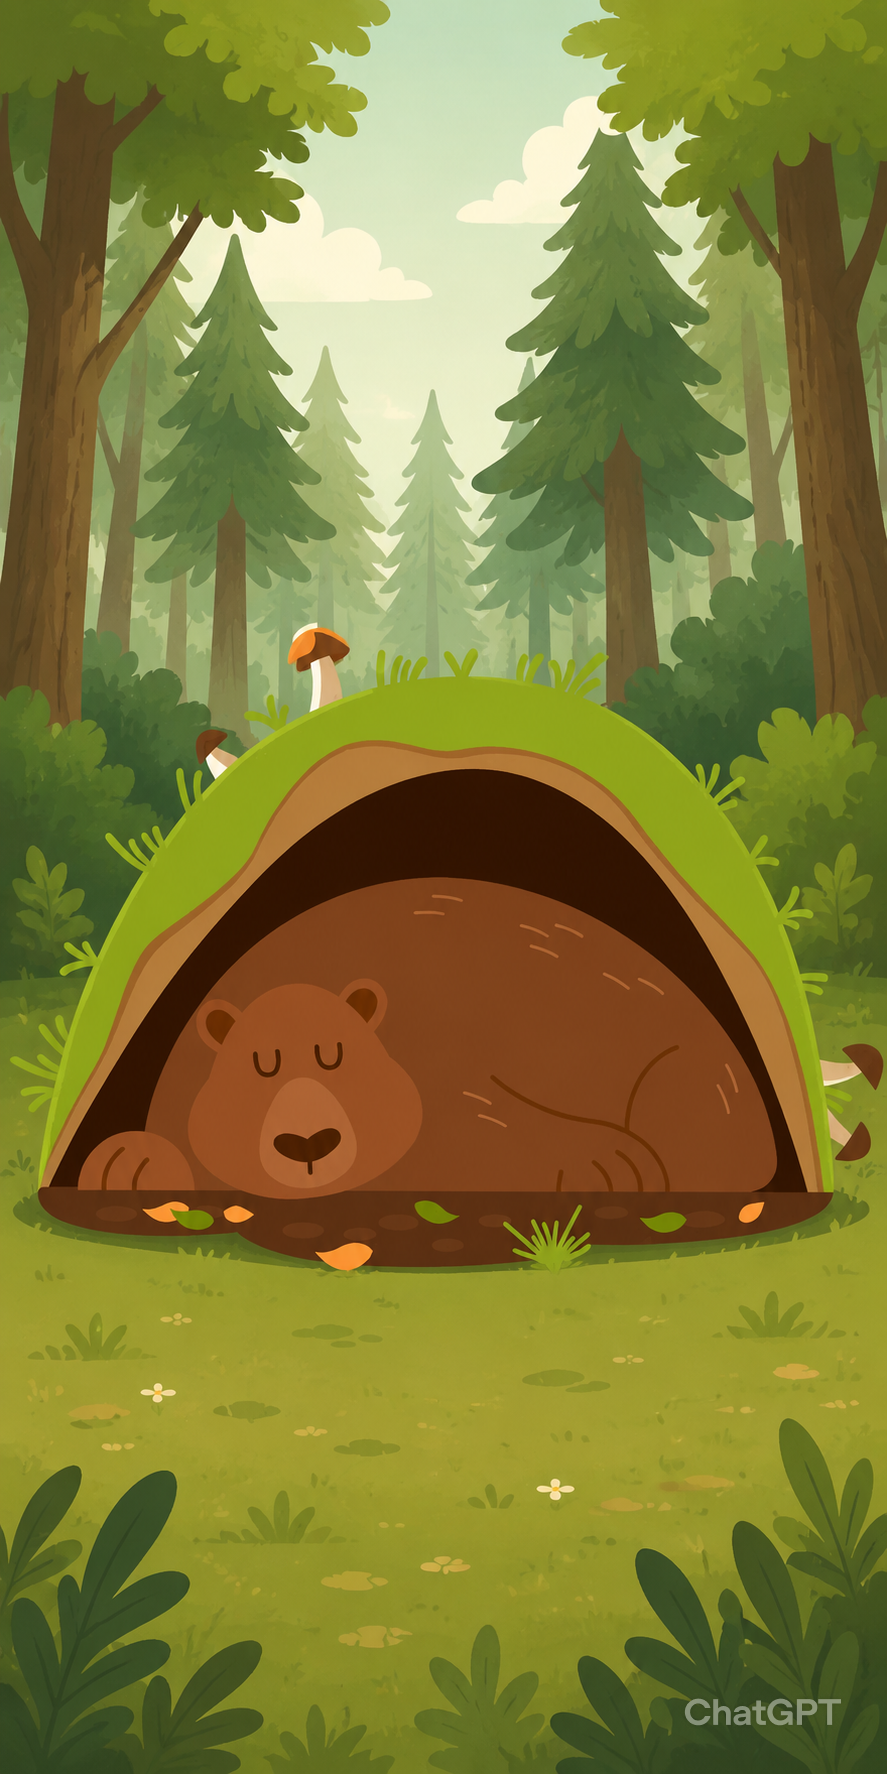
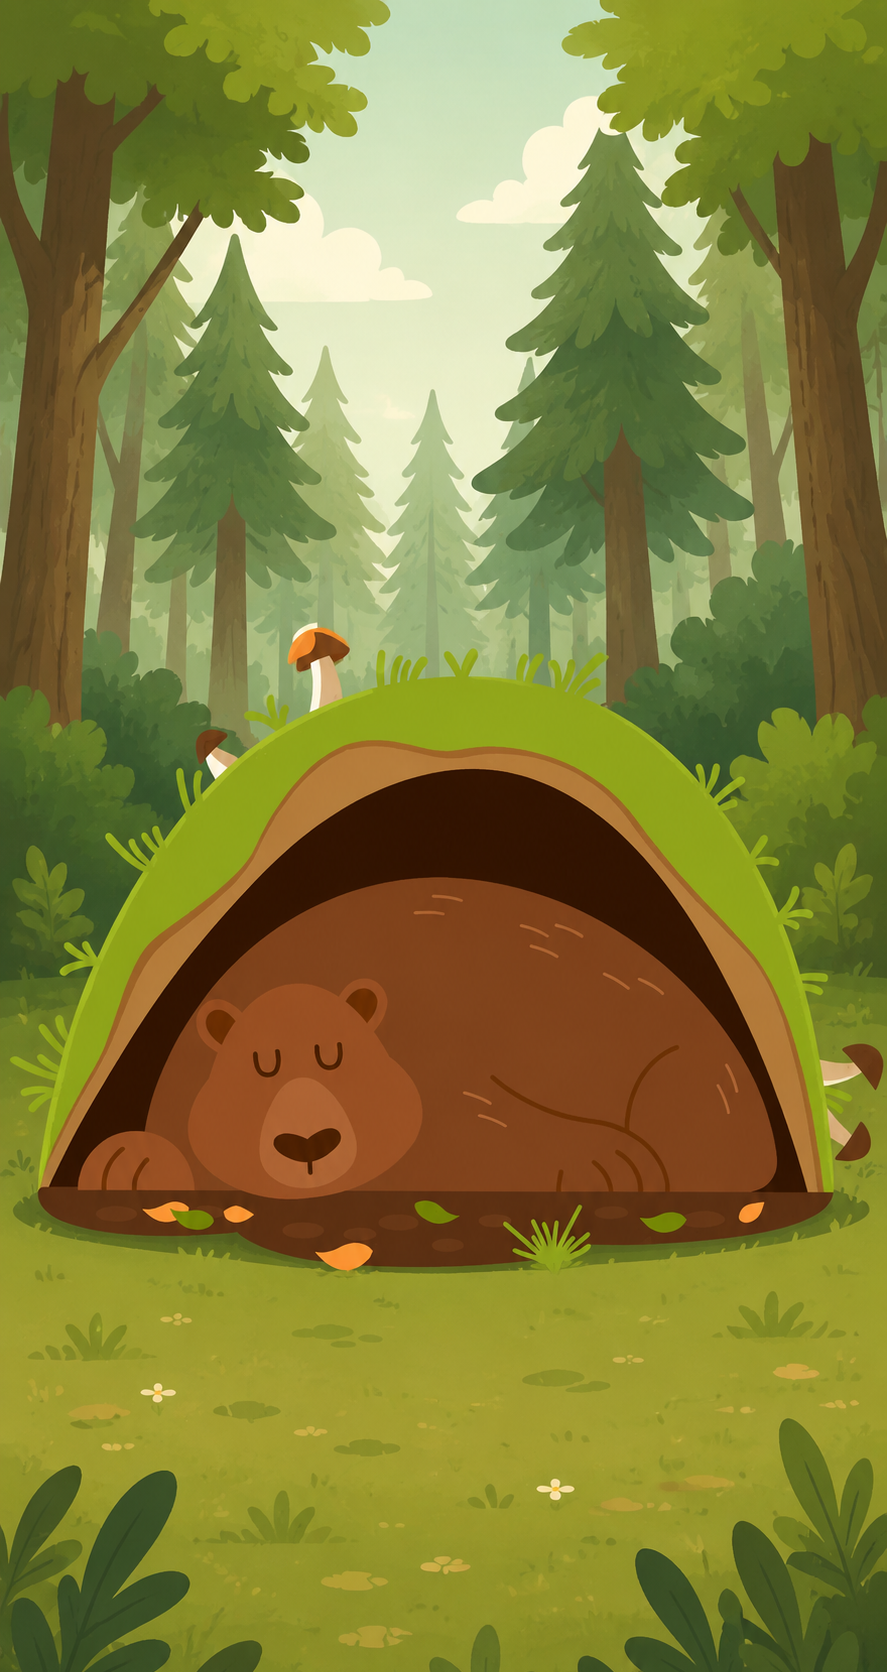
done update ui

diff --git a/lib/widgets/common/level_winding_path.dart b/lib/widgets/common/level_winding_path.dart
@@ -12,14 +12,30 @@ class BearHeadShape extends CustomPainter {
 
   @override
   void paint(Canvas canvas, Size size) {
+    final path = _getBearPath(size);
+
+    // Subtle soft shadow behind the bear head to blur the outline/edges
+    final shadowPaint = Paint()
+      ..color = Colors.black.withValues(alpha: 0.18)
+      ..style = PaintingStyle.fill
+      ..maskFilter = const MaskFilter.blur(BlurStyle.normal, 4.0);
+    canvas.drawPath(path, shadowPaint);
+
     final paint = Paint()
       ..color = color
       ..style = PaintingStyle.fill;
 
-    final path = _getBearPath(size);
     canvas.drawPath(path, paint);
 
     if (borderWidth > 0 && borderColor != null) {
+      // Soft glow/blur effect around the outline/border
+      final glowPaint = Paint()
+        ..color = borderColor!.withValues(alpha: 0.4)
+        ..style = PaintingStyle.stroke
+        ..strokeWidth = borderWidth + 3
+        ..maskFilter = const MaskFilter.blur(BlurStyle.normal, 2.5);
+      canvas.drawPath(path, glowPaint);
+
       final borderPaint = Paint()
         ..color = borderColor!
         ..style = PaintingStyle.stroke
@@ -85,6 +101,7 @@ class LevelNode extends StatelessWidget {
   final bool isActive;
   final bool isBoss;
   final VoidCallback onTap;
+  final Color? completedColor;
 
   const LevelNode({
     super.key,
@@ -95,6 +112,7 @@ class LevelNode extends StatelessWidget {
     required this.isActive,
     required this.isBoss,
     required this.onTap,
+    this.completedColor,
   });
 
   @override
@@ -107,7 +125,7 @@ class LevelNode extends StatelessWidget {
     } else if (isActive) {
       nodeColor = AppColors.primary;
     } else if (isCompleted) {
-      nodeColor = AppColors.secondary;
+      nodeColor = completedColor ?? AppColors.secondary;
     } else {
       nodeColor = AppColors.primaryLight;
     }
@@ -158,13 +176,38 @@ class LevelNode extends StatelessWidget {
           ),
           const SizedBox(height: AppSpacing.xs),
           if (!isBoss || label == 'Summary')
-            Text(
-              label,
-              style: AppTextStyles.bodyBold.copyWith(
-                color: isUnlocked ? AppColors.foreground : AppColors.mutedText,
+            Container(
+              padding: const EdgeInsets.symmetric(
+                horizontal: AppSpacing.sm,
+                vertical: AppSpacing.xs,
+              ),
+              decoration: BoxDecoration(
+                color: Colors.white.withValues(alpha: 0.92),
+                borderRadius: BorderRadius.circular(12),
+                boxShadow: [
+                  BoxShadow(
+                    color: Colors.black.withValues(alpha: 0.08),
+                    blurRadius: 4,
+                    offset: const Offset(0, 2),
+                  ),
+                ],
+              ),
+              child: Column(
+                mainAxisSize: MainAxisSize.min,
+                children: [
+                  Text(
+                    label,
+                    style: AppTextStyles.bodyBold.copyWith(
+                      color: isUnlocked
+                          ? AppColors.foreground
+                          : AppColors.mutedText,
+                    ),
+                  ),
+                  const SizedBox(height: 2),
+                  _buildStars(),
+                ],
               ),
             ),
-          if (!isBoss || label == 'Summary') _buildStars(),
         ],
       ),
     );
@@ -346,10 +389,15 @@ class PathPainter extends CustomPainter {
 
 class ChapterDivider extends StatelessWidget {
   final String title;
-  const ChapterDivider({super.key, required this.title});
+  final Color? color;
+
+  const ChapterDivider({super.key, required this.title, this.color});
 
   @override
   Widget build(BuildContext context) {
+    final bgColor = color ?? AppColors.secondary;
+    final textColor = color != null ? Colors.white : AppColors.secondaryText;
+
     return Container(
       width: double.infinity,
       margin: const EdgeInsets.symmetric(
@@ -358,7 +406,7 @@ class ChapterDivider extends StatelessWidget {
       ),
       padding: const EdgeInsets.symmetric(vertical: AppSpacing.md),
       decoration: BoxDecoration(
-        color: AppColors.secondary,
+        color: bgColor,
         borderRadius: AppRadius.r(AppRadius.lg),
         boxShadow: AppShadows.card,
         border: Border.all(color: Colors.white, width: 3),
@@ -367,7 +415,7 @@ class ChapterDivider extends StatelessWidget {
         child: Text(
           title.toUpperCase(),
           style: AppTextStyles.whiteTitle.copyWith(
-            color: AppColors.secondaryText,
+            color: textColor,
             letterSpacing: 2,
           ),
         ),
@@ -398,6 +446,27 @@ class LevelWindingPath extends StatelessWidget {
   Widget build(BuildContext context) {
     return LayoutBuilder(
       builder: (context, constraints) {
+        final Color completedColor;
+        switch (subjectId.toLowerCase()) {
+          case 'bm':
+            completedColor = AppColors.subjectBm;
+            break;
+          case 'bi':
+            completedColor = AppColors.subjectEnglish;
+            break;
+          case 'bc':
+            completedColor = AppColors.subjectMandarin;
+            break;
+          case 'math':
+            completedColor = AppColors.subjectMath;
+            break;
+          case 'sci':
+            completedColor = AppColors.subjectScience;
+            break;
+          default:
+            completedColor = AppColors.secondary;
+        }
+
         final width = constraints.maxWidth;
         final centerX = width / 2;
         final horizontalOffset = width * 0.22;
@@ -417,7 +486,7 @@ class LevelWindingPath extends StatelessWidget {
               left: 0,
               right: 0,
               top: visualIndex * verticalStep + 20,
-              child: ChapterDivider(title: chapter.name),
+              child: ChapterDivider(title: chapter.name, color: completedColor),
             ),
           );
           visualIndex++;
@@ -488,6 +557,7 @@ class LevelWindingPath extends StatelessWidget {
                   isActive: isActive,
                   isBoss: isBoss,
                   onTap: () => onLevelTap(levelId, isBoss, chapter.id),
+                  completedColor: completedColor,
                 ),
               ),
             );

diff --git a/lib/widgets/common/mascot_widget.dart b/lib/widgets/common/mascot_widget.dart
@@ -1,6 +1,5 @@
 import 'dart:math' as math;
 
-import 'package:cloud_firestore/cloud_firestore.dart';
 import 'package:flutter/material.dart';
 import 'package:flutter_riverpod/flutter_riverpod.dart';
 
@@ -381,41 +380,34 @@ class ActiveMascotWidget extends ConsumerWidget {
       );
     }
 
-    if (hideUntilLoaded) {
-      final profile = ref.watch(userProfileProvider(childId!));
+    final profile = ref.watch(userProfileProvider(childId!));
 
-      return profile.when(
-        loading: () => SizedBox(height: size, width: size),
-        error: (error, stackTrace) => SizedBox(height: size, width: size),
-        data: (profile) => _PrecachedMascot(
-          outfitId: profile.activeMascotOutfit,
-          size: size,
-          message: message,
-          showBackground: showBackground,
-          mood: mood,
-        ),
-      );
-    }
-
-    return StreamBuilder<DocumentSnapshot<Map<String, dynamic>>>(
-      stream: FirebaseFirestore.instance
-          .collection('parents')
-          .doc(user.uid)
-          .collection('children')
-          .doc(childId)
-          .snapshots(),
-      builder: (context, snapshot) {
-        final data = snapshot.data?.data();
-        final outfitId = data?['activeOutfitID'] as String? ?? 'scholar_bear';
-
-        return MascotWidget(
-          size: size,
-          message: message,
-          outfitId: outfitId,
-          showBackground: showBackground,
-          mood: mood,
-        );
-      },
+    return profile.when(
+      loading: () => hideUntilLoaded
+          ? SizedBox(height: size, width: size)
+          : MascotWidget(
+              size: size,
+              message: message,
+              outfitId: 'scholar_bear',
+              showBackground: showBackground,
+              mood: mood,
+            ),
+      error: (error, stackTrace) => hideUntilLoaded
+          ? SizedBox(height: size, width: size)
+          : MascotWidget(
+              size: size,
+              message: message,
+              outfitId: 'scholar_bear',
+              showBackground: showBackground,
+              mood: mood,
+            ),
+      data: (profile) => _PrecachedMascot(
+        outfitId: profile.activeMascotOutfit,
+        size: size,
+        message: message,
+        showBackground: showBackground,
+        mood: mood,
+      ),
     );
   }
 }

diff --git a/lib/screens/child/quests_screen.dart b/lib/screens/child/quests_screen.dart
@@ -413,7 +413,7 @@ class _QuestOutfitCard extends StatelessWidget {
                 boxShadow: AppShadows.card,
               ),
               child: Column(
-                mainAxisAlignment: MainAxisAlignment.start,
+                mainAxisAlignment: MainAxisAlignment.center,
                 children: [
                   _OutfitImage(quest: quest, locked: !unlocked),
                   const SizedBox(height: AppSpacing.sm),

diff --git a/lib/theme/app_theme.dart b/lib/theme/app_theme.dart
@@ -25,7 +25,7 @@ class AppColors {
   static const subjectBm = Color(0xFFFF7A2F);
   static const subjectEnglish = Color(0xFF3A8DFF);
   static const subjectMandarin = Color(0xFF57B846);
-  static const subjectMath = Color(0xFFA855F7);
+  static const subjectMath = Color(0xFF8453A8);
   static const subjectScience = Color(0xFF16A085);
   static const imagePlaceholder = Color(0xFFE5E7EB);
 }